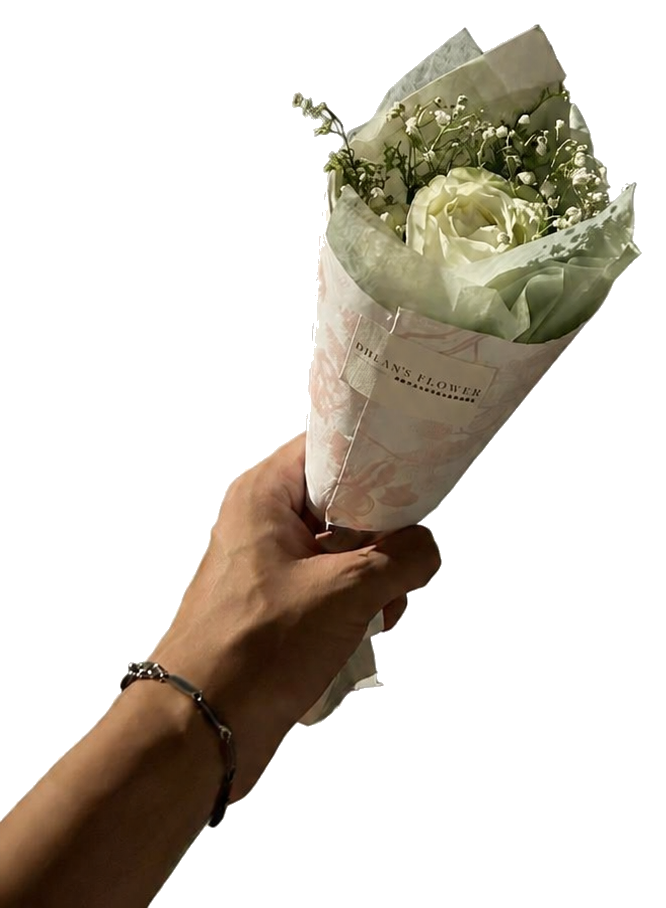
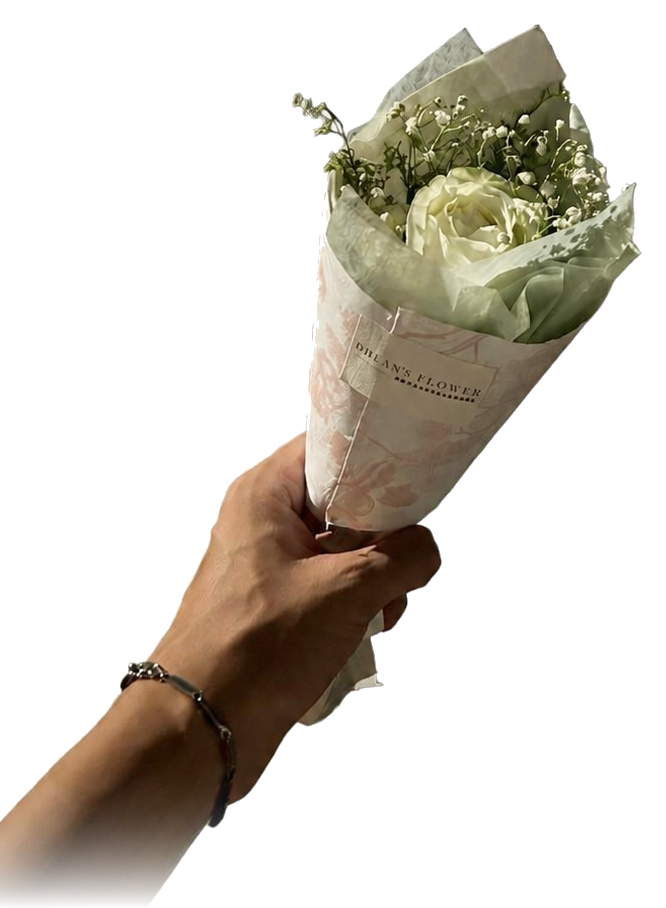
2

Changed region(s): [[0.0, 0.8634, 0.3303, 1.0]]

diff --git a/script.js b/script.js
@@ -52,11 +52,11 @@ async function addFlower(source, width, height) {
   await flower.decode();
 
   const isPortrait = canvas.height > canvas.width;
-  const flowerWidth = canvas.width * (isPortrait ? 0.48 : 0.46);
+  const flowerWidth = canvas.width * (isPortrait ? 0.44 : 0.46);
   const flowerHeight = flowerWidth * (flower.height / flower.width);
-  const x = isPortrait ? canvas.width * -0.12 : canvas.width * 0.04;
+  const x = isPortrait ? canvas.width * 0.015 : canvas.width * 0.04;
   const y = isPortrait
-    ? canvas.height - flowerHeight - canvas.height * 0.075
+    ? canvas.height - flowerHeight - canvas.height * 0.09
     : Math.max(0, canvas.height - flowerHeight - canvas.height * 0.02);
 
   context.save();
